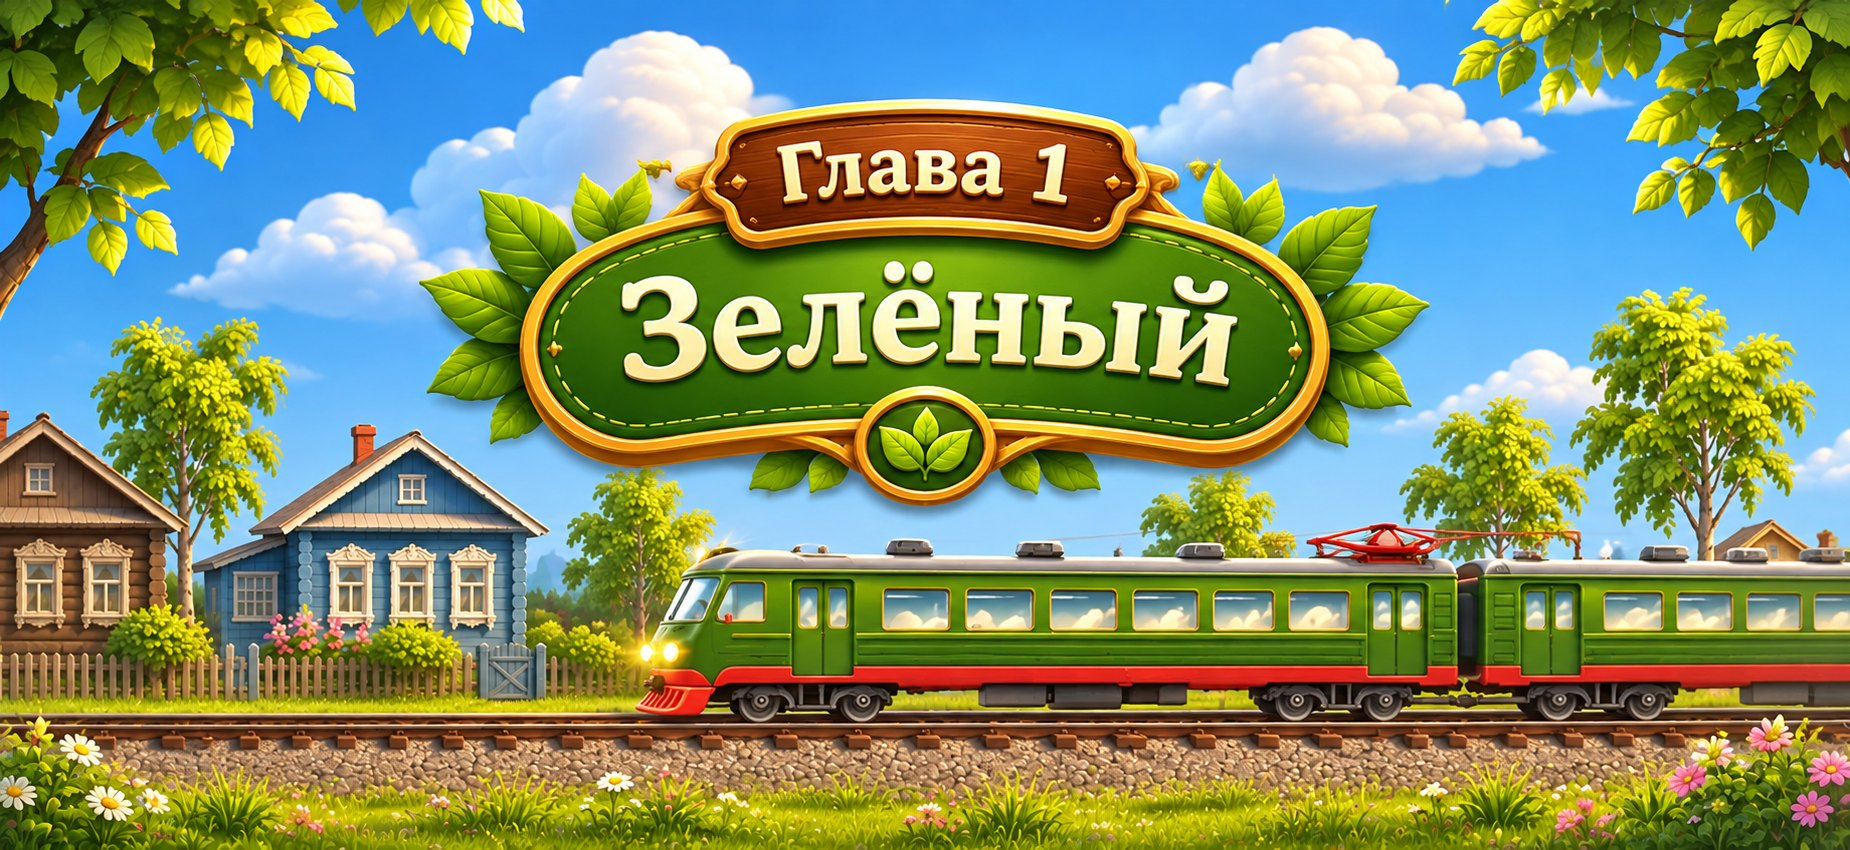
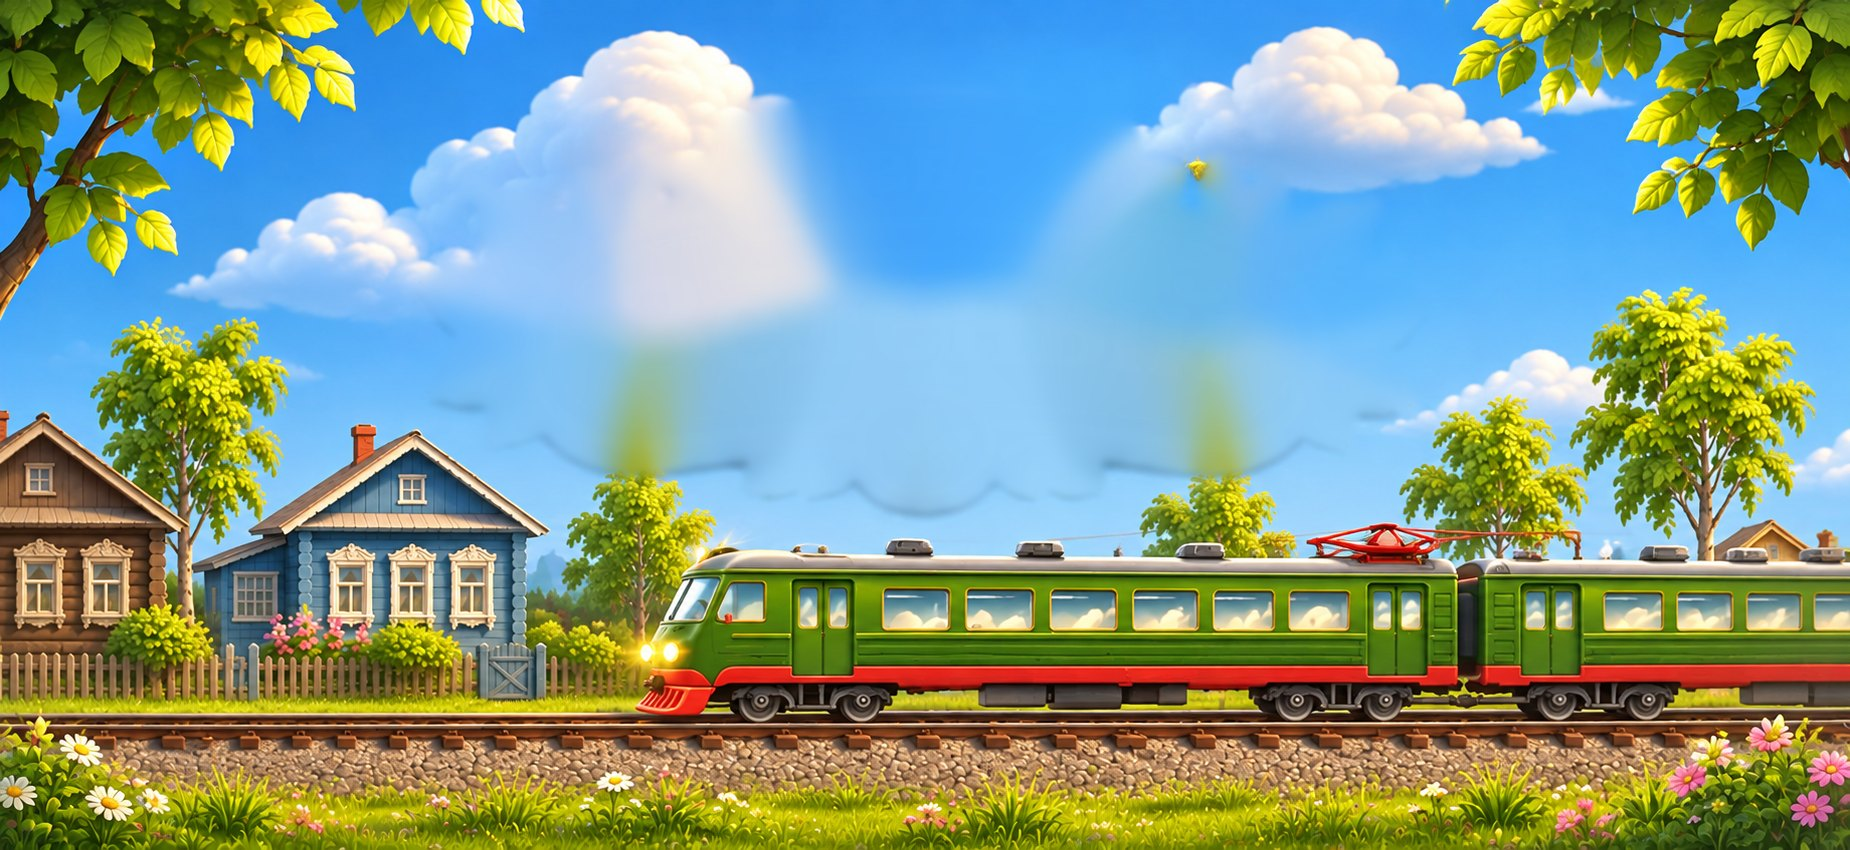
Уровень 2 «К Кристине через весь Зелёный», плавная заставка главы
- Уровень 2 вдвое длиннее первого: 16 гусей (и на мостках), лужи,
  пропасти с мостками, стена из ящиков, 4 контрольные точки.
- Заставка: вывеска убрана с фоновой картинки, копия поверх плавно
  приближается без отскока, поэтому больше не видно «двойной» вывески.
- Версия 13 с описанием для плашки обновления.

Claude-Session: https://claude.ai/code/session_01A1fsHFsKujy2k637jZdRh7

Changed region(s): [[0.2157, 0.0918, 0.7703, 0.6118]]

diff --git a/src/levels.js b/src/levels.js
@@ -40,6 +40,36 @@ export const LEVELS = [
       '######################   #######################################   ##   ####################################',
     ],
   },
+  {
+    id: 'zeleny-2',
+    age: 'child',
+    chapter: 'Глава 1 · Зелёный',
+    title: 'К Кристине через весь Зелёный',
+    text: 'Кристина ждёт у станции на другом конце Зелёного. Дорога длинная: после дождя кругом лужи, овраги, мостки и целая стая гусей.',
+    theme: 'zeleny',
+    signs: [
+      { col: 5, text: 'Кристина ждёт на станции. Беги!' },
+      { col: 11, text: 'После дождя лужи. Не наступай!' },
+      { col: 59, text: 'Впереди пропасть. Прыгай по мосткам' },
+      { col: 97, text: 'Стена из ящиков! Кидай камни' },
+      { col: 125, text: 'Осторожно, гусиная стая!' },
+      { col: 202, text: 'Кристина уже машет рукой!' },
+    ],
+    map: [
+      '',
+      '',
+      '',
+      '',
+      '',
+      '                                     o o o                                                                        oEo',
+      '                                       E                              ooo                           B             ===                                       ooEoo',
+      '             oooo              ooo   ======                      ooo  ===       o o o o             B                 ooo     o o o o o o o o       oooo    =====               ooo          ooo',
+      '                                                  B              ===      ==                        B         ===     === ==                                          B',
+      '  P   oooo         oo  E   oo                 E   B ooo     C                      E       E   E    B ooo C                     E    E    E       C      E        E   B  E          C              E   E  ooo  F',
+      '##############~~###############   #####################   #####              ####~####~######################               ##################   ####~~#########################   #####~####   ######################',
+      '###############################   #####################   #####              ################################               ##################   ###############################   ##########   ######################'
+    ],
+  },
 ];
 
 export const TILE = 48;

diff --git a/style.css b/style.css
@@ -544,7 +544,8 @@ canvas#game {
   background-size: 250% 100%;
   background-position: 130% 0;
 }
-#splash.run .splash-plaque { animation: plaque-stamp .9s .35s cubic-bezier(.3, 1.5, .5, 1) both, plaque-breathe 2.4s 1.4s ease-in-out infinite; }
+/* Вывеска на картинке уже есть; копия поверх всегда непрозрачная и не меньше оригинала, чтобы не было «двойной» вывески. */
+#splash.run .splash-plaque { animation: plaque-stamp 1s .2s cubic-bezier(.2, .8, .3, 1) both; }
 #splash.run .splash-plaque::after { animation: plaque-shine 1.1s 1.3s ease-in-out both; }
 .splash-leaves i {
   position: absolute; top: -40px;
@@ -559,12 +560,7 @@ canvas#game {
 @keyframes splash-in { from { opacity: 0; } to { opacity: 1; } }
 @keyframes splash-out { from { opacity: 1; } to { opacity: 0; } }
 @keyframes splash-zoom { from { transform: translate(-50%, -50%) scale(1.14); } to { transform: translate(-50%, -50%) scale(1); } }
-@keyframes plaque-stamp {
-  0% { transform: scale(1.6); opacity: 0; filter: blur(4px); }
-  60% { opacity: 1; filter: blur(0); }
-  100% { transform: scale(1); opacity: 1; }
-}
-@keyframes plaque-breathe { 0%, 100% { transform: scale(1); } 50% { transform: scale(1.025); } }
+@keyframes plaque-stamp { from { transform: scale(1.22); } to { transform: scale(1); } }
 @keyframes plaque-shine { from { background-position: 130% 0; } to { background-position: -30% 0; } }
 @keyframes leaf-fall {
   0% { opacity: 0; transform: translate(0, 0) rotate(0deg) scale(var(--s, 1)); }

diff --git a/src/version.js b/src/version.js
@@ -3,4 +3,4 @@
 //   2) поставь тот же номер и список изменений в version.json (их и покажет плашка),
 //   3) увеличь VERSION в sw.js.
 // Игра на главной сверяет свой номер с version.json на сайте и, если там новее, предлагает обновиться.
-export const APP_VERSION = 12;
+export const APP_VERSION = 13;

diff --git a/sw.js b/sw.js
@@ -1,6 +1,6 @@
 // Офлайн-кэш: после первого открытия игра работает без интернета.
 // При каждом обновлении игры увеличивай VERSION, чтобы iPad подхватил новые файлы.
-const VERSION = 'v12';
+const VERSION = 'v13';
 const CACHE = `polina-${VERSION}`;
 const FILES = [
   './',
